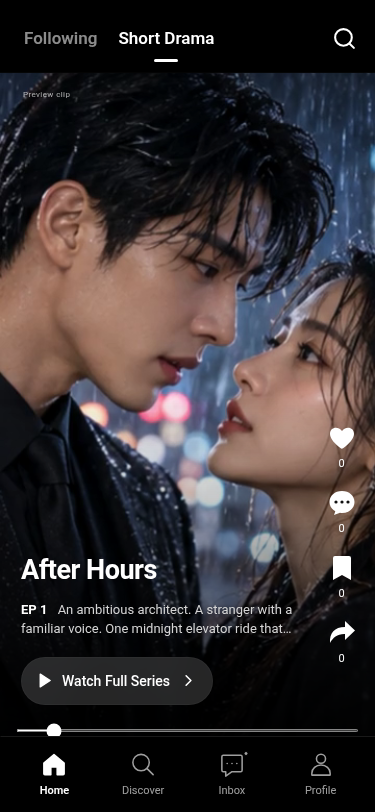
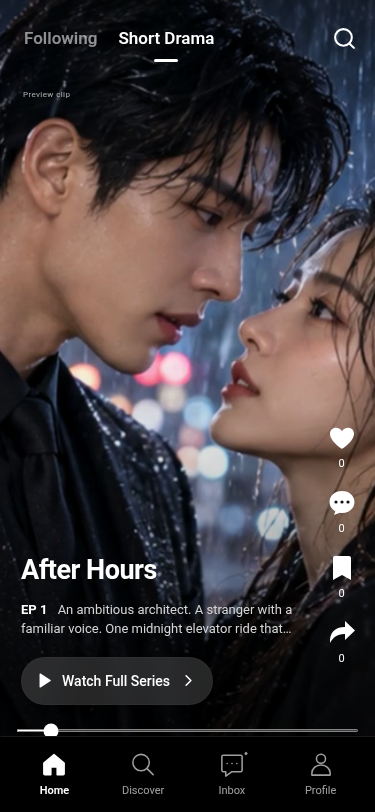
Fill Home above navigation and tighten Discover spacing

diff --git a/src/style.css b/src/style.css
@@ -1,6 +1,6 @@
-:root{font-family:Roboto,Arial,sans-serif;color:#111;background:#ededed;font-synthesis:none;--accent:#111;--cream:#111;--muted:#747474;--line:#e8e8e8;--serif:Roboto,Arial,sans-serif}*{box-sizing:border-box}body{margin:0;background:#ededed;color:#111;font-size:14px;line-height:1.45}button,input,textarea,select{font:inherit}button{color:inherit;cursor:pointer;background:none;border:0;padding:0}button:disabled{cursor:not-allowed;opacity:.48}button:focus-visible,input:focus-visible,textarea:focus-visible{outline:2px solid #888;outline-offset:4px}a{color:inherit}h1,h2,h3,p{letter-spacing:normal}h1,h2,h3{font-family:Roboto,Arial,sans-serif}input,textarea,select{min-width:0;accent-color:#111}svg{flex-shrink:0}button svg{vertical-align:middle}.prime-shell{width:100%;max-width:480px;min-height:100dvh;margin:auto;background:#fff;position:relative;--nav-bg:#fff}.dark-shell{background:#000;color:#fff;--nav-bg:#000}.logo{font-size:26px;letter-spacing:-1.2px;font-weight:700}.logo span{font-size:10px;vertical-align:super;margin-left:3px}.primary{background:#111;color:#fff;border:1px solid #111;padding:13px 18px;display:inline-flex;align-items:center;justify-content:center;gap:8px;border-radius:25px;font-size:13px;font-weight:500}.outline{background:transparent;border:1px solid #bbb;color:#111;padding:11px 16px;border-radius:8px;display:inline-flex;align-items:center;gap:8px}.muted{color:#777;font-size:12px;line-height:1.6}.center{text-align:center}.white-page{min-height:100dvh;padding:26px 16px calc(100px + env(safe-area-inset-bottom));background:#fff;color:#111}.prime-nav{position:fixed;z-index:40;bottom:0;left:50%;transform:translateX(-50%);width:100%;max-width:480px;background:var(--nav-bg);display:flex;height:calc(76px + env(safe-area-inset-bottom));padding:11px 10px calc(10px + env(safe-area-inset-bottom));border-top:1px solid #e8e8e8}.prime-nav button{flex:1;display:flex;align-items:center;justify-content:center;flex-direction:column;gap:5px;color:#737373;font-size:11px;font-weight:400}.prime-nav button.active{color:#000;font-weight:600}.prime-nav button>span:first-child{position:relative;display:flex}.dark-shell .prime-nav{border-color:#191919}.dark-shell .prime-nav button{color:#fff;opacity:.62}.dark-shell .prime-nav button.active{opacity:1}.dark-shell .prime-nav button.active svg{fill:currentColor}.unread-dot{position:absolute;right:-3px;top:0;width:5px;height:5px;border-radius:50%;background:currentColor;border:1px solid var(--nav-bg)}
-.home-stage{height:100dvh;position:relative;background:#000;overflow:hidden}.home-player{position:absolute;inset:0;touch-action:pan-x}.video-canvas{position:absolute;left:0;top:50%;transform:translateY(-50%);width:100%;aspect-ratio:9/16;overflow:hidden;background:#151515}.cover{display:block;width:100%;height:100%;object-fit:cover;object-position:top;overflow:hidden}.video-canvas>.cover,.video-canvas>video{position:absolute;inset:0;width:100%;height:100%;object-fit:cover}.home-shade{pointer-events:none;position:absolute;inset:0;background:linear-gradient(180deg,#0008,transparent 22%,transparent 49%,#0004 65%,#000d 89%,#000 96%)}.home-tabs{position:absolute;left:24px;right:18px;top:calc(25px + env(safe-area-inset-top));display:flex;align-items:center;justify-content:center;gap:24px;z-index:20}.home-tabs button{font-size:17px;font-weight:600;opacity:.55;position:relative;text-shadow:0 1px 6px #0007;white-space:nowrap}.home-tabs button.selected{opacity:1}.home-tabs button.selected:after{content:'';position:absolute;left:calc(50% - 12px);bottom:-12px;width:24px;height:3px;border-radius:5px;background:#fff}.home-tabs button:last-child{opacity:1;margin-left:auto}.home-caption{position:absolute;bottom:calc(107px + env(safe-area-inset-bottom));left:21px;right:70px;pointer-events:none}.home-caption h1{font-size:27px;line-height:1.12;margin:0 0 14px;font-weight:700;max-width:270px;letter-spacing:-.5px;color:#fff;text-shadow:0 1px 12px #0003}.home-caption p{font-size:13px;color:#d5d5d5;display:-webkit-box;-webkit-line-clamp:2;-webkit-box-orient:vertical;overflow:hidden;line-height:1.5;margin:0 0 18px}.home-caption strong{color:#fff;margin-right:7px;font-size:13px;white-space:nowrap}.watch-full{pointer-events:auto;display:flex;align-items:center;gap:9px;font-size:14px;background:#ffffff26;color:#fff;border:1px solid #ffffff08;border-radius:28px;padding:13px 14px;backdrop-filter:blur(12px);font-weight:500}.engagement{position:absolute;right:15px;bottom:calc(145px + env(safe-area-inset-bottom));display:flex;flex-direction:column;gap:17px}.engagement button{display:flex;align-items:center;flex-direction:column;gap:4px;text-shadow:0 1px 5px #0008;min-width:37px;color:#fff}.engagement svg{width:28px;height:28px;stroke-width:2}.engagement small{font-size:11px}.timeline{position:absolute;bottom:calc(80px + env(safe-area-inset-bottom));left:16px;width:calc(100% - 32px);height:3px;accent-color:#fff;margin:0;cursor:pointer}.preview-label{position:absolute;top:calc(89px + env(safe-area-inset-top));left:23px;font-size:8px;letter-spacing:.4px;color:#fff;opacity:.65}.center-play{position:absolute;left:50%;top:44%;transform:translate(-50%,-50%);padding:25px;color:#fff;filter:drop-shadow(0 2px 12px #0004)}.player-state{position:absolute;inset:95px 0 100px;z-index:15;background:#090909ed;display:flex;flex-direction:column;align-items:center;justify-content:center;text-align:center;padding:28px;color:#fff}.player-state h2{font-size:31px;line-height:1.16;margin:18px 0}.player-state p{color:#bcbcbc;font-size:13px;line-height:1.8}.player-state .primary{background:#fff;color:#111;margin:15px 0}.player-state small{font-size:10px;color:#999}.badge{padding:7px 13px;border:1px solid #777;border-radius:20px;font-size:11px}.desktop-switch{position:fixed;left:calc(50% + 264px);bottom:150px;display:flex;flex-direction:column;gap:12px;color:#111}.desktop-switch button{background:#fff;border-radius:50%;padding:10px;display:flex}.home-empty{position:absolute;top:20%;color:#fff}.home-empty .primary{background:#fff;color:#000}
-.search-box{display:flex;align-items:center;gap:12px;background:#f5f5f5;border:1px solid #eaeaea;border-radius:13px;height:48px;padding:0 14px;margin-bottom:14px}.search-box input{background:none;border:0;outline:none;width:100%;font-size:18px;color:#222}.search-box input::placeholder{color:#929292}.genre-tabs{display:flex;gap:7px;overflow:auto;scrollbar-width:none;margin:0 -16px;padding:0 16px 3px}.genre-tabs button{white-space:nowrap;border:1px solid #e9e9e9;background:#f5f5f5;border-radius:25px;padding:10px 15px;font-size:12px}.genre-tabs button.selected{color:#fff;background:#080808;border-color:#080808}.discover-grid{margin-top:20px}.card-grid{display:grid;grid-template-columns:repeat(2,minmax(0,1fr));gap:18px 8px;align-items:start}.drama-card{width:100%;min-width:0;background:transparent;text-align:left;display:block;color:#222}.card-poster{position:relative;display:block;aspect-ratio:4/5;width:100%;border-radius:10px;overflow:hidden;background:#eee}.card-poster>.cover{position:absolute;inset:0;transition:transform .3s}.drama-card:hover .cover{transform:scale(1.025)}.card-copy{display:flex;flex-direction:column;gap:4px;padding:6px 3px 0}.card-copy strong{font-size:14px;line-height:1.4;font-weight:400;display:-webkit-box;-webkit-line-clamp:2;-webkit-box-orient:vertical;overflow:hidden}.card-summary{font-size:11.5px;line-height:1.45;font-weight:400;color:#8a8a8a;white-space:nowrap;overflow:hidden;text-overflow:ellipsis}.catalog-end{text-align:center;font-size:10px;color:#888;margin:24px 0 14px}.refresh-button{display:flex;align-items:center;justify-content:center;gap:6px;color:#666;font-size:11px;margin:auto}.page-title{display:flex;align-items:center;justify-content:space-between;margin:0 0 18px;gap:12px}.page-title h1{font-size:27px;letter-spacing:-.7px;margin:0}.page-title>button{font-size:11px}.page-title+.muted{margin-bottom:22px}.empty{padding:58px 16px;color:#777;text-align:center;display:flex;align-items:center;flex-direction:column}.empty h2{font-size:21px;font-weight:600;color:inherit;margin:16px 0 8px;font-family:inherit}.empty p{font-size:12px;margin:0 0 20px}
+:root{font-family:Roboto,Arial,sans-serif;color:#111;background:#ededed;font-synthesis:none;--accent:#111;--cream:#111;--muted:#747474;--line:#e8e8e8;--serif:Roboto,Arial,sans-serif}*{box-sizing:border-box}body{margin:0;background:#ededed;color:#111;font-size:14px;line-height:1.45}button,input,textarea,select{font:inherit}button{color:inherit;cursor:pointer;background:none;border:0;padding:0}button:disabled{cursor:not-allowed;opacity:.48}button:focus-visible,input:focus-visible,textarea:focus-visible{outline:2px solid #888;outline-offset:4px}a{color:inherit}h1,h2,h3,p{letter-spacing:normal}h1,h2,h3{font-family:Roboto,Arial,sans-serif}input,textarea,select{min-width:0;accent-color:#111}svg{flex-shrink:0}button svg{vertical-align:middle}.prime-shell{width:100%;max-width:480px;min-height:100dvh;margin:auto;background:#fff;position:relative;--nav-bg:#fff;--nav-height:calc(76px + env(safe-area-inset-bottom))}.dark-shell{background:#000;color:#fff;--nav-bg:#000}.logo{font-size:26px;letter-spacing:-1.2px;font-weight:700}.logo span{font-size:10px;vertical-align:super;margin-left:3px}.primary{background:#111;color:#fff;border:1px solid #111;padding:13px 18px;display:inline-flex;align-items:center;justify-content:center;gap:8px;border-radius:25px;font-size:13px;font-weight:500}.outline{background:transparent;border:1px solid #bbb;color:#111;padding:11px 16px;border-radius:8px;display:inline-flex;align-items:center;gap:8px}.muted{color:#777;font-size:12px;line-height:1.6}.center{text-align:center}.white-page{min-height:100dvh;padding:26px 16px calc(100px + env(safe-area-inset-bottom));background:#fff;color:#111}.prime-nav{position:fixed;z-index:40;bottom:0;left:50%;transform:translateX(-50%);width:100%;max-width:480px;background:var(--nav-bg);display:flex;height:var(--nav-height);padding:11px 10px calc(10px + env(safe-area-inset-bottom));border-top:1px solid #e8e8e8}.prime-nav button{flex:1;display:flex;align-items:center;justify-content:center;flex-direction:column;gap:5px;color:#737373;font-size:11px;font-weight:400}.prime-nav button.active{color:#000;font-weight:600}.prime-nav button>span:first-child{position:relative;display:flex}.dark-shell .prime-nav{border-color:#191919}.dark-shell .prime-nav button{color:#fff;opacity:.62}.dark-shell .prime-nav button.active{opacity:1}.dark-shell .prime-nav button.active svg{fill:currentColor}.unread-dot{position:absolute;right:-3px;top:0;width:5px;height:5px;border-radius:50%;background:currentColor;border:1px solid var(--nav-bg)}
+.home-stage{height:100dvh;position:relative;background:#000;overflow:hidden}.home-player{position:absolute;inset:0;touch-action:pan-x}.video-canvas{position:absolute;inset:0 0 var(--nav-height);width:100%;overflow:hidden;background:#151515}.cover{display:block;width:100%;height:100%;object-fit:cover;object-position:top;overflow:hidden}.video-canvas>.cover,.video-canvas>video{position:absolute;inset:0;width:100%;height:100%;object-fit:cover}.home-shade{pointer-events:none;position:absolute;inset:0 0 var(--nav-height);background:linear-gradient(180deg,#0006,transparent 22%,transparent 49%,#0003 68%,#0009 100%)}.home-tabs{position:absolute;left:24px;right:18px;top:calc(25px + env(safe-area-inset-top));display:flex;align-items:center;justify-content:center;gap:24px;z-index:20}.home-tabs button{font-size:17px;font-weight:600;opacity:.55;position:relative;text-shadow:0 1px 6px #0007;white-space:nowrap}.home-tabs button.selected{opacity:1}.home-tabs button.selected:after{content:'';position:absolute;left:calc(50% - 12px);bottom:-12px;width:24px;height:3px;border-radius:5px;background:#fff}.home-tabs button:last-child{opacity:1;margin-left:auto}.home-caption{position:absolute;bottom:calc(107px + env(safe-area-inset-bottom));left:21px;right:70px;pointer-events:none}.home-caption h1{font-size:27px;line-height:1.12;margin:0 0 14px;font-weight:700;max-width:270px;letter-spacing:-.5px;color:#fff;text-shadow:0 1px 12px #0003}.home-caption p{font-size:13px;color:#d5d5d5;display:-webkit-box;-webkit-line-clamp:2;-webkit-box-orient:vertical;overflow:hidden;line-height:1.5;margin:0 0 18px}.home-caption strong{color:#fff;margin-right:7px;font-size:13px;white-space:nowrap}.watch-full{pointer-events:auto;display:flex;align-items:center;gap:9px;font-size:14px;background:#ffffff26;color:#fff;border:1px solid #ffffff08;border-radius:28px;padding:13px 14px;backdrop-filter:blur(12px);font-weight:500}.engagement{position:absolute;right:15px;bottom:calc(145px + env(safe-area-inset-bottom));display:flex;flex-direction:column;gap:17px}.engagement button{display:flex;align-items:center;flex-direction:column;gap:4px;text-shadow:0 1px 5px #0008;min-width:37px;color:#fff}.engagement svg{width:28px;height:28px;stroke-width:2}.engagement small{font-size:11px}.timeline{position:absolute;bottom:calc(80px + env(safe-area-inset-bottom));left:16px;width:calc(100% - 32px);height:3px;accent-color:#fff;margin:0;cursor:pointer}.preview-label{position:absolute;top:calc(89px + env(safe-area-inset-top));left:23px;font-size:8px;letter-spacing:.4px;color:#fff;opacity:.65}.center-play{position:absolute;left:50%;top:44%;transform:translate(-50%,-50%);padding:25px;color:#fff;filter:drop-shadow(0 2px 12px #0004)}.player-state{position:absolute;inset:95px 0 100px;z-index:15;background:#090909ed;display:flex;flex-direction:column;align-items:center;justify-content:center;text-align:center;padding:28px;color:#fff}.player-state h2{font-size:31px;line-height:1.16;margin:18px 0}.player-state p{color:#bcbcbc;font-size:13px;line-height:1.8}.player-state .primary{background:#fff;color:#111;margin:15px 0}.player-state small{font-size:10px;color:#999}.badge{padding:7px 13px;border:1px solid #777;border-radius:20px;font-size:11px}.desktop-switch{position:fixed;left:calc(50% + 264px);bottom:150px;display:flex;flex-direction:column;gap:12px;color:#111}.desktop-switch button{background:#fff;border-radius:50%;padding:10px;display:flex}.home-empty{position:absolute;top:20%;color:#fff}.home-empty .primary{background:#fff;color:#000}
+.search-box{display:flex;align-items:center;gap:12px;background:#f5f5f5;border:1px solid #eaeaea;border-radius:13px;height:48px;padding:0 14px;margin-bottom:14px}.search-box input{background:none;border:0;outline:none;width:100%;font-size:18px;color:#222}.search-box input::placeholder{color:#929292}.genre-tabs{display:flex;gap:7px;overflow:auto;scrollbar-width:none;margin:0 -16px;padding:0 16px 3px}.genre-tabs button{white-space:nowrap;border:1px solid #e9e9e9;background:#f5f5f5;border-radius:25px;padding:10px 15px;font-size:12px}.genre-tabs button.selected{color:#fff;background:#080808;border-color:#080808}.discover-grid{margin-top:20px}.card-grid{display:grid;grid-template-columns:repeat(2,minmax(0,1fr));gap:14px 8px;align-items:start}.drama-card{width:100%;min-width:0;background:transparent;text-align:left;display:block;color:#222}.card-poster{position:relative;display:block;aspect-ratio:4/5;width:100%;border-radius:10px;overflow:hidden;background:#eee}.card-poster>.cover{position:absolute;inset:0;transition:transform .3s}.drama-card:hover .cover{transform:scale(1.025)}.card-copy{display:flex;flex-direction:column;gap:2px;padding:6px 3px 0}.card-copy strong{font-size:14px;line-height:1.4;font-weight:400;display:-webkit-box;-webkit-line-clamp:2;-webkit-box-orient:vertical;overflow:hidden}.card-summary{font-size:11.5px;line-height:1.45;font-weight:400;color:#8a8a8a;white-space:nowrap;overflow:hidden;text-overflow:ellipsis}.catalog-end{text-align:center;font-size:10px;color:#888;margin:24px 0 14px}.refresh-button{display:flex;align-items:center;justify-content:center;gap:6px;color:#666;font-size:11px;margin:auto}.page-title{display:flex;align-items:center;justify-content:space-between;margin:0 0 18px;gap:12px}.page-title h1{font-size:27px;letter-spacing:-.7px;margin:0}.page-title>button{font-size:11px}.page-title+.muted{margin-bottom:22px}.empty{padding:58px 16px;color:#777;text-align:center;display:flex;align-items:center;flex-direction:column}.empty h2{font-size:21px;font-weight:600;color:inherit;margin:16px 0 8px;font-family:inherit}.empty p{font-size:12px;margin:0 0 20px}
 .notice{display:flex;align-items:flex-start;gap:13px;text-align:left;padding:22px 0;border-bottom:1px solid #eee;width:100%;position:relative}.notice:first-of-type{margin-top:10px}.notice-icon{padding:13px;background:#f5f5f5;display:flex;border-radius:50%;color:#555}.notice>span:nth-child(2){flex:1}.notice strong{font-size:13px;font-weight:600}.notice p{font-size:12px;color:#777;margin:5px 0}.notice small{font-size:10px;color:#999}.notice i{width:5px;height:5px;border-radius:50%;background:#111;margin-top:8px}.profile-info{text-align:center;padding:6px 0}.profile-avatar{width:78px;height:78px;border-radius:50%;background:linear-gradient(140deg,#f2f2f2,#dedede);display:grid;place-items:center;margin:0 auto 14px;font-size:32px;font-weight:500;color:#555}.profile-info h2{font-size:23px;margin:0 0 5px}.profile-info small{color:#999;font-size:10px}.profile-info p{font-size:12px;color:#777}.profile-stats{display:flex;justify-content:center;margin:20px 0 26px}.profile-stats>span{display:flex;flex-direction:column;align-items:center;width:95px;font-size:10px;color:#888;border-right:1px solid #eee}.profile-stats>span:last-child{border:0}.profile-stats strong{color:#111;font-size:19px;margin-bottom:4px}.vip-entry{display:flex;align-items:center;gap:11px;background:#111;color:#fff;border-radius:12px;padding:17px 14px;text-align:left;width:100%;margin:0 0 25px}.vip-entry span{flex:1}.vip-entry strong{font-size:12px;display:block;font-weight:500}.vip-entry small{font-size:10px;color:#aaa;display:block;margin-top:4px}.profile-tabs{display:flex;border-bottom:1px solid #eee;margin-bottom:18px}.profile-tabs button{flex:1;display:flex;align-items:center;justify-content:center;gap:6px;padding:12px 5px;font-size:12px;color:#888}.profile-tabs button.selected{border-bottom:2px solid #111;color:#111;font-weight:600}.resume-label{display:block;font-size:10px;color:#777;margin:8px 0 5px}
 .modal-backdrop{position:fixed;inset:0;background:#0008;backdrop-filter:blur(4px);display:flex;align-items:center;justify-content:center;z-index:100;padding:20px}.modal{background:#fff;color:#111;border:0;border-radius:20px;box-shadow:0 18px 100px #0004;padding:24px;max-width:480px;max-height:88dvh;overflow:auto;width:100%}.modal-heading{display:flex;justify-content:space-between;align-items:center;margin-bottom:12px}.modal-heading h2{font-size:23px;font-family:inherit;font-weight:700;margin:0}.modal-heading button{padding:5px}.episode-grid{display:grid;grid-template-columns:repeat(5,minmax(0,1fr));gap:9px;margin:20px 0}.episode-grid button{border:1px solid #e3e3e3;color:#777;background:#f7f7f7;border-radius:7px;padding:13px 0;font-size:14px;display:flex;align-items:center;justify-content:center;gap:5px}.episode-grid button.current{background:#111;color:#fff;border-color:#111}.episode-grid button svg{color:inherit}.follow-series{border:1px solid #ccc;border-radius:20px;padding:8px 16px;font-size:12px}.toggle-line{display:flex;justify-content:space-between;align-items:center;font-size:12px;margin:22px 0}.toggle-line input{width:18px;height:18px}.settings-form label{display:flex;flex-direction:column;gap:7px;font-size:12px;margin:16px 0}.settings-form input:not([type=checkbox]),.settings-form textarea,.share-input{border:1px solid #ddd;background:#f7f7f7;color:#111;border-radius:8px;padding:12px;width:100%}.settings-form .toggle-line{flex-direction:row}.text-button{display:flex;align-items:center;gap:6px;margin-top:20px;font-size:12px}.comment-list{max-height:45dvh;overflow:auto}.comment{display:flex;gap:10px;margin:20px 0}.small-avatar{flex-shrink:0;width:32px;height:32px;display:grid;place-items:center;background:#eee;border-radius:50%;font-size:12px}.comment>div{flex:1;min-width:0}.comment strong{font-size:12px}.comment p{margin:7px 0;overflow-wrap:anywhere;font-size:13px}.comment small{display:block;color:#999;font-size:10px}.comment-actions{display:flex;gap:17px;color:#777;font-size:10px}.comment-actions button{display:flex;align-items:center;gap:4px}.comment-form{display:flex;gap:8px;margin-top:20px}.comment-form input{min-width:0;flex:1;border:1px solid #ddd;padding:10px;border-radius:22px;background:#f7f7f7;color:#111;font-size:12px}.comment-form .primary{padding:10px 16px}.reply-hint{font-size:10px;color:#777}.reply-hint button{float:right;text-decoration:underline}.toast{position:fixed;z-index:200;left:50%;transform:translateX(-50%);bottom:calc(90px + env(safe-area-inset-bottom));color:#fff;background:#222;border:1px solid #555;border-radius:10px;font-size:12px;line-height:1.5;box-shadow:0 4px 20px #0002;padding:12px 17px;max-width:calc(100% - 28px);width:max-content}
 .vip-page{padding-top:22px}.back-button{display:flex;align-items:center;gap:8px;margin-bottom:28px;font-size:12px}.vip-page>h1{font-size:32px;line-height:1.15;letter-spacing:-1px;margin:18px 0 12px}.billing-note{padding:14px;background:#f5f5f5;border:1px solid #e7e7e7;border-radius:10px;font-size:11px;line-height:1.7;margin:22px 0}.vip-plan{border:1px solid #ddd;border-radius:14px;padding:24px;margin:20px 0;background:#fff}.vip-plan.premium{background:#111;color:#fff;border-color:#111}.plan-label{font-size:8px;letter-spacing:1.5px;color:#999}.vip-plan h2{font-size:25px;margin:14px 0}.vip-price{font-size:34px;margin:0 0 6px;font-weight:600}.vip-price small{font-size:12px;font-weight:400;color:#999}.vip-plan>small{font-size:10px;color:#999}.vip-plan ul{list-style:none;padding:18px 0 8px;border-top:1px solid #8884;margin-top:22px}.vip-plan li{display:flex;align-items:center;gap:9px;font-size:12px;margin-bottom:15px}.vip-plan>.primary{width:100%}.vip-plan.premium .primary{background:#fff;color:#111}.demo-button{display:block;margin:17px auto 0;text-decoration:underline;font-size:12px;text-underline-offset:3px}.demo-note{text-align:center;font-size:12px;padding:12px}.demo-note p{font-size:11px;color:#777}.demo-note button{font-size:11px;text-decoration:underline}.loading-screen{min-height:100dvh;display:flex;flex-direction:column;align-items:center;justify-content:center;gap:18px}.loading-screen p{color:#777;font-size:13px}

diff --git a/docs/使用说明.md b/docs/使用说明.md
@@ -4,7 +4,7 @@
 
 ## 页面和操作
 
-- **Home**：黑色沉浸播放器，9:16视频画布，UI叠加不压缩画布。默认静音，在选集面板的 Sound 开关切换声音；点视频暂停/播放，也可聚焦视频后按空格或回车。底部滑杆定位。上下滑动切剧，电脑右侧箭头切剧。
+- **Home**：沉浸播放器，9:16源视频以等比裁切方式铺满底部导航上方的整个可用区域，不拉伸、不留上下空白；UI叠加于视频。默认静音，在选集面板的 Sound 开关切换声音；点视频暂停/播放，也可聚焦视频后按空格或回车。底部滑杆定位。上下滑动切剧，电脑右侧箭头切剧。
 - **Watch Full Series**：选集、查看免费范围、开关自动连播与声音、关注整部剧。关注的剧进入 Following。
 - 右侧点赞、评论、收藏、分享：实际保存到服务端。支持评论回复/点赞、关注评论用户、删除本人评论。分享使用系统分享或复制链接，不支持时显示可选中的链接。
 - **Discover**：纯白背景、彩色4:5双列封面（无角标或播放按钮）、封面下方的常规字重剧名和更小的灰色简介、搜索标题或简介、仅保留顶部六个分类和连续双列内容，不再显示 Trending Now / Recommended For You 分区。支持下拉刷新和分页滚动加载。当前6部样例加载完即显示结束提示，不重复填充。推荐标签为编辑推荐，不代表真实流量。

diff --git a/docs/previews/README.md b/docs/previews/README.md
@@ -1,6 +1,6 @@
 # PrimeDrama 实际界面截图
 
-最新调整：首页四个互动图标白色实心、间距缩小；移除左上角暂停/静音图标；各页共用1.6细线导航，首页选中项白色实心；发现页只保留顶部分类和连续双列海报，封面无播放按钮和角标，剧名与更小的灰色简介位于图片下方。声音开关位于选集面板。
+最新调整：首页视频铺满底部导航上方区域，9:16源视频等比裁切、不拉伸；发现页卡片纵向间距缩至14px，剧名与简介间距缩至2px。此前调整：首页四个互动图标白色实心、间距缩小；移除左上角暂停/静音图标；各页共用1.6细线导航，首页选中项白色实心；发现页只保留顶部分类和连续双列海报，封面无播放按钮和角标，剧名与更小的灰色简介位于图片下方。声音开关位于选集面板。
 
 云端 Chromium 运行截图，可在 GitHub 打开；图片不是可交互网站。保留 VIP：前 N 集免费、Basic含广告、Premium无平台广告，PayPal未开通。
 

diff --git a/docs/交付记录.md b/docs/交付记录.md
@@ -1,6 +1,10 @@
 # PrimeDrama 交付与验证记录
 
-## 最新封面排版与选中态
+## 最新视频铺满与间距调整
+
+首页视频容器从屏幕顶部延伸至底部导航上沿，9:16源视频通过object-fit: cover等比裁切，避免留白或拉伸。发现页卡片纵向间距由18px缩至14px，剧名与简介间距由4px缩至2px。生产构建及8项浏览器流程通过，验证了375×812和375×667下视频与导航边界对齐、源视频比例和真实解码；实际截图已更新。
+
+## 上一轮封面排版与选中态
 
 首页底部选中的图标恢复白色实心，未选中项维持细线轮廓。剧集卡片移除封面播放按钮和角标；文字移到图片下方，剧名14px常规字重、简介11.5px灰色单行省略。双列横向间距8px、纵向18px，保留4:5彩色封面。生产构建与8项浏览器流程通过，实际截图已更新。
 
